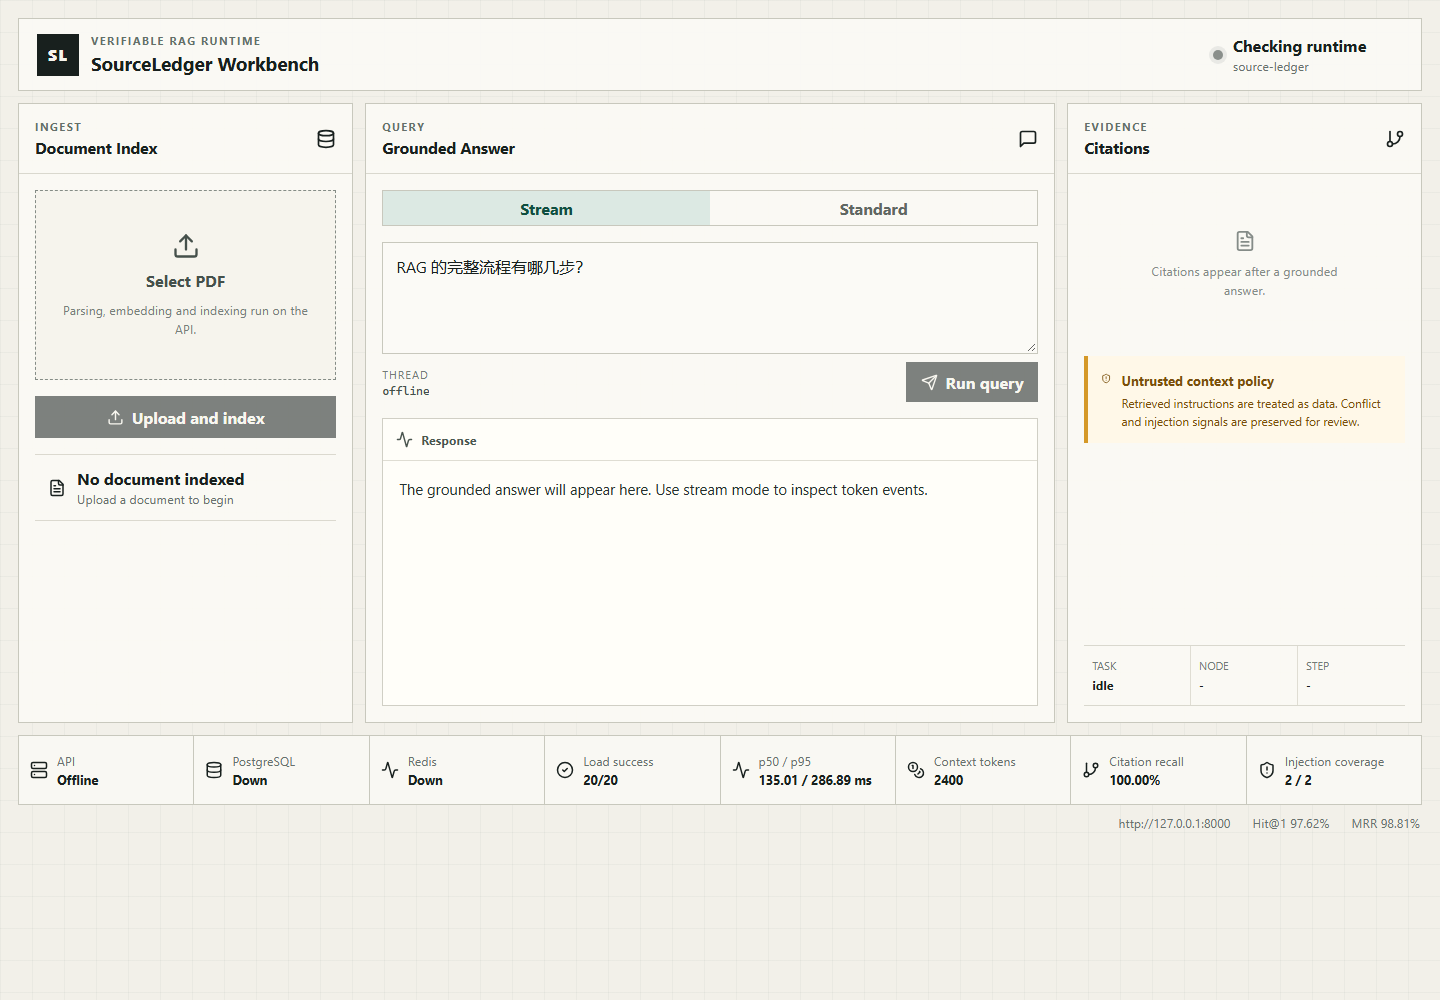
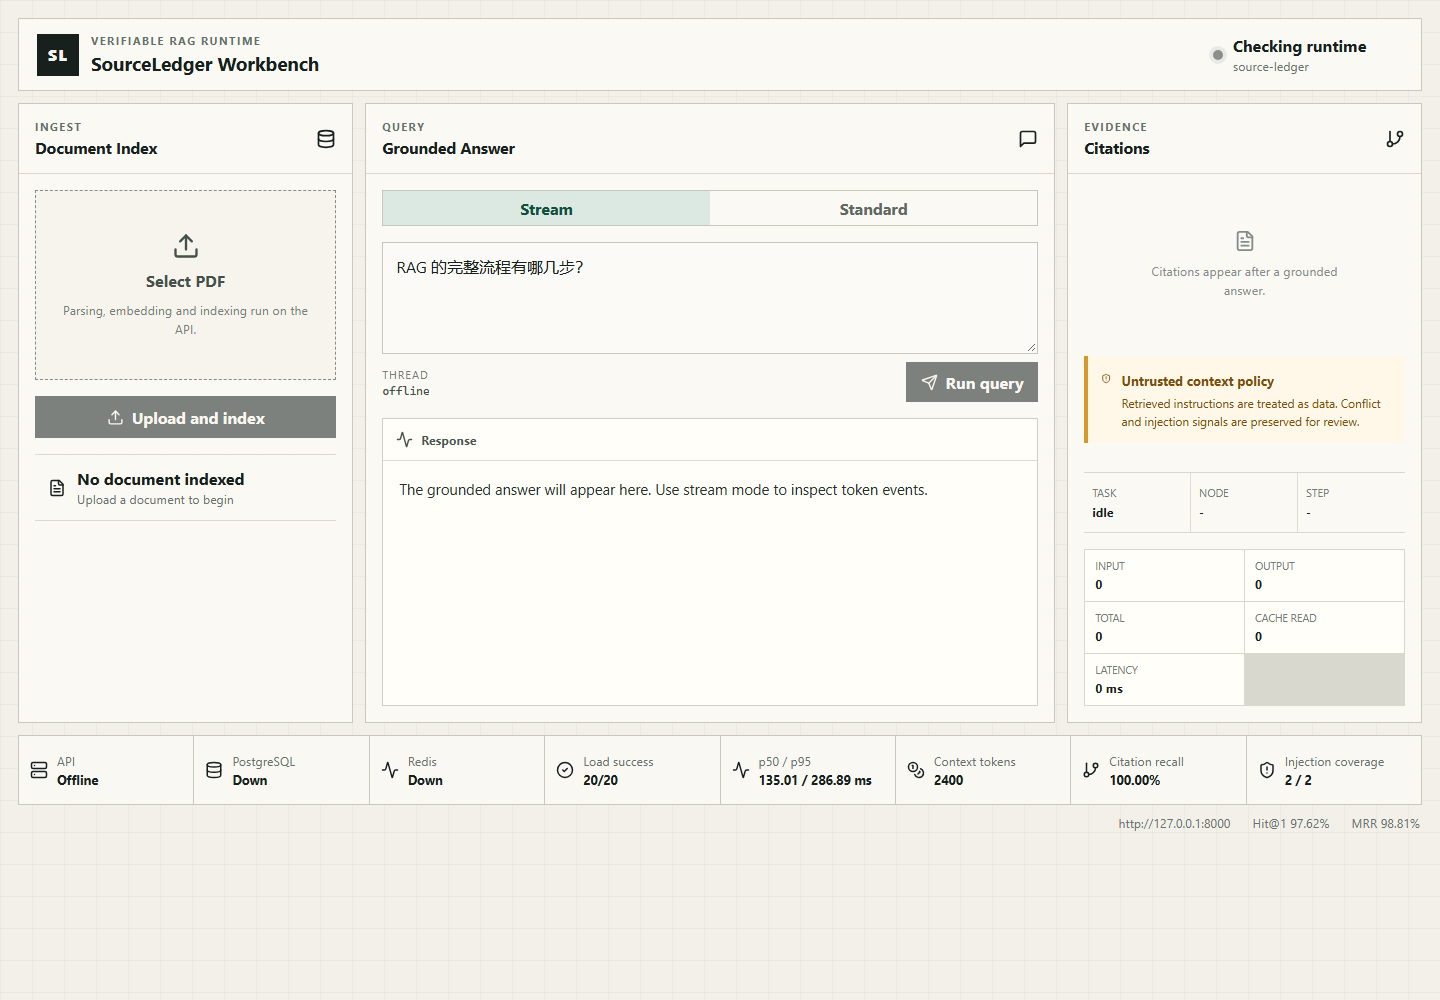
feat: expose real token usage in workbench

diff --git a/project_a/frontend/src/App.tsx b/project_a/frontend/src/App.tsx
@@ -43,6 +43,11 @@ function formatPercent(value: number): string {
   return `${(value * 100).toFixed(2)}%`;
 }
 
+function numberFrom(value: unknown): number {
+  const parsed = Number(value);
+  return Number.isFinite(parsed) ? parsed : 0;
+}
+
 function App() {
   const [apiStatus, setApiStatus] =
     useState<ApiStatus>("checking");
@@ -71,6 +76,14 @@ function App() {
   const [runId, setRunId] = useState("");
   const [task, setTask] =
     useState<TaskStatusResponse | null>(null);
+  const [usage, setUsage] = useState({
+    inputTokens: 0,
+    outputTokens: 0,
+    totalTokens: 0,
+    cacheReadTokens: 0,
+    contextTokens: 0,
+    latencyMs: 0,
+  });
   const [querying, setQuerying] = useState(false);
   const [uploading, setUploading] = useState(false);
   const [error, setError] = useState("");
@@ -183,6 +196,14 @@ function App() {
     setCitations([]);
     setRunId("");
     setTask(null);
+    setUsage({
+      inputTokens: 0,
+      outputTokens: 0,
+      totalTokens: 0,
+      cacheReadTokens: 0,
+      contextTokens: 0,
+      latencyMs: 0,
+    });
 
     const requestId = crypto.randomUUID();
 
@@ -219,6 +240,29 @@ function App() {
               setRunId(nextRunId);
             }
 
+            if (event.event === "done") {
+              setUsage({
+                inputTokens: numberFrom(
+                  event.data.input_tokens,
+                ),
+                outputTokens: numberFrom(
+                  event.data.output_tokens,
+                ),
+                totalTokens: numberFrom(
+                  event.data.total_tokens,
+                ),
+                cacheReadTokens: numberFrom(
+                  event.data.cache_read_tokens,
+                ),
+                contextTokens: numberFrom(
+                  event.data.context_tokens_est,
+                ),
+                latencyMs: numberFrom(
+                  event.data.latency_ms,
+                ),
+              });
+            }
+
             if (event.event === "error") {
               throw new Error(
                 String(
@@ -244,6 +288,16 @@ function App() {
         setAnswer(response.answer);
         setCitations(response.citations);
         setRunId(response.run_id);
+        setUsage({
+          inputTokens: response.input_tokens,
+          outputTokens: response.output_tokens,
+          totalTokens: response.total_tokens,
+          cacheReadTokens:
+            response.cache_read_tokens,
+          contextTokens:
+            response.context_tokens_est,
+          latencyMs: response.latency_ms,
+        });
         await refreshTask(response.run_id);
       }
     } catch (queryError) {
@@ -500,6 +554,31 @@ function App() {
               </strong>
             </div>
           </div>
+
+          <div className="usage-box">
+            <div>
+              <span>Input</span>
+              <strong>{usage.inputTokens}</strong>
+            </div>
+            <div>
+              <span>Output</span>
+              <strong>{usage.outputTokens}</strong>
+            </div>
+            <div>
+              <span>Total</span>
+              <strong>{usage.totalTokens}</strong>
+            </div>
+            <div>
+              <span>Cache read</span>
+              <strong>{usage.cacheReadTokens}</strong>
+            </div>
+            <div>
+              <span>Latency</span>
+              <strong>
+                {usage.latencyMs.toFixed(0)} ms
+              </strong>
+            </div>
+          </div>
         </aside>
       </main>
 
@@ -609,4 +688,3 @@ function App() {
 }
 
 export default App;
-

diff --git a/project_a/frontend/src/styles.css b/project_a/frontend/src/styles.css
@@ -455,6 +455,32 @@ code {
   text-overflow: ellipsis;
 }
 
+.usage-box {
+  display: grid;
+  grid-template-columns: repeat(2, 1fr);
+  gap: 1px;
+  margin: 0 16px 16px;
+  border: 1px solid #d9d8ce;
+  background: #d9d8ce;
+}
+
+.usage-box div {
+  display: grid;
+  gap: 3px;
+  padding: 9px 10px;
+  background: #fffef9;
+}
+
+.usage-box span {
+  color: #737b77;
+  font-size: 0.66rem;
+  text-transform: uppercase;
+}
+
+.usage-box strong {
+  font-size: 0.78rem;
+}
+
 .metrics-strip {
   display: grid;
   grid-template-columns: repeat(8, 1fr);
@@ -554,4 +580,3 @@ code {
     gap: 5px;
   }
 }
-

diff --git a/project_a/frontend/src/types.ts b/project_a/frontend/src/types.ts
@@ -45,6 +45,10 @@ export interface AskResponse {
   answer: string;
   citations: Citation[];
   context_tokens_est: number;
+  input_tokens: number;
+  output_tokens: number;
+  total_tokens: number;
+  cache_read_tokens: number;
   latency_ms: number;
   replayed: boolean;
 }
@@ -77,4 +81,3 @@ export interface StandardAskPayload {
   request_id: string;
   stream: false;
 }
-

diff --git a/project_a/agent.py b/project_a/agent.py
@@ -1,4 +1,5 @@
 import os
+import time
 from typing import Annotated, TypedDict
 
 from dotenv import load_dotenv
@@ -69,6 +70,7 @@ graph = builder.compile(checkpointer=checkpointer)
 
 
 def ask(question: str, thread_id: str = "default") -> dict:
+    started = time.perf_counter()
     config = {"configurable": {"thread_id": thread_id}}
     result = graph.invoke(
         {"messages": [HumanMessage(content=question)]},
@@ -81,4 +83,42 @@ def ask(question: str, thread_id: str = "default") -> dict:
         {"source": h["source"], "page": h["page"], "distance": h["distance"]}
         for h in hits
     ]
-    return {"answer": answer, "citations": citations}
+
+    input_tokens = 0
+    output_tokens = 0
+    total_tokens = 0
+    cache_read_tokens = 0
+
+    for message in result["messages"]:
+        usage = getattr(message, "usage_metadata", None)
+        if not usage:
+            continue
+
+        input_tokens += int(usage.get("input_tokens", 0) or 0)
+        output_tokens += int(usage.get("output_tokens", 0) or 0)
+        total_tokens += int(usage.get("total_tokens", 0) or 0)
+        input_details = usage.get("input_token_details") or {}
+        cache_read_tokens += int(
+            input_details.get("cache_read", 0) or 0
+        )
+
+    fallback_context_tokens = sum(
+        max(1, len(str(hit["text"])) // 2)
+        for hit in hits
+    )
+    latency_ms = (time.perf_counter() - started) * 1000
+
+    return {
+        "answer": answer,
+        "citations": citations,
+        "context_tokens_est": (
+            input_tokens
+            if input_tokens > 0
+            else fallback_context_tokens
+        ),
+        "input_tokens": input_tokens,
+        "output_tokens": output_tokens,
+        "total_tokens": total_tokens,
+        "cache_read_tokens": cache_read_tokens,
+        "latency_ms": round(latency_ms, 2),
+    }

diff --git a/project_a/runtime/api/S19_4_routes.py b/project_a/runtime/api/S19_4_routes.py
@@ -168,6 +168,18 @@ def execute_ask(
             context_tokens_est=int(
                 raw_result.get("context_tokens_est",0)
             ),
+            input_tokens=int(
+                raw_result.get("input_tokens",0)
+            ),
+            output_tokens=int(
+                raw_result.get("output_tokens",0)
+            ),
+            total_tokens=int(
+                raw_result.get("total_tokens",0)
+            ),
+            cache_read_tokens=int(
+                raw_result.get("cache_read_tokens",0)
+            ),
             latency_ms=raw_result.get("latency_ms",0.0),
             replayed=False,
         )

diff --git a/project_a/runtime/api/S19_5_stream.py b/project_a/runtime/api/S19_5_stream.py
@@ -132,7 +132,13 @@ def stream_events(
             {
                 "run_id":response.run_id,
                 "status":response.status.value,
-                "replayed":response.replayed
+                "replayed":response.replayed,
+                "context_tokens_est":response.context_tokens_est,
+                "input_tokens":response.input_tokens,
+                "output_tokens":response.output_tokens,
+                "total_tokens":response.total_tokens,
+                "cache_read_tokens":response.cache_read_tokens,
+                "latency_ms":response.latency_ms
             }
         )
 

diff --git a/project_a/runtime/api/S19_1_schemas.py b/project_a/runtime/api/S19_1_schemas.py
@@ -161,6 +161,10 @@ class AskResponse(BaseModel):
         default_factory=list
     )
     context_tokens_est:int=0
+    input_tokens:int=0
+    output_tokens:int=0
+    total_tokens:int=0
+    cache_read_tokens:int=0
     latency_ms:float=0.0
     replayed:bool=False
 
